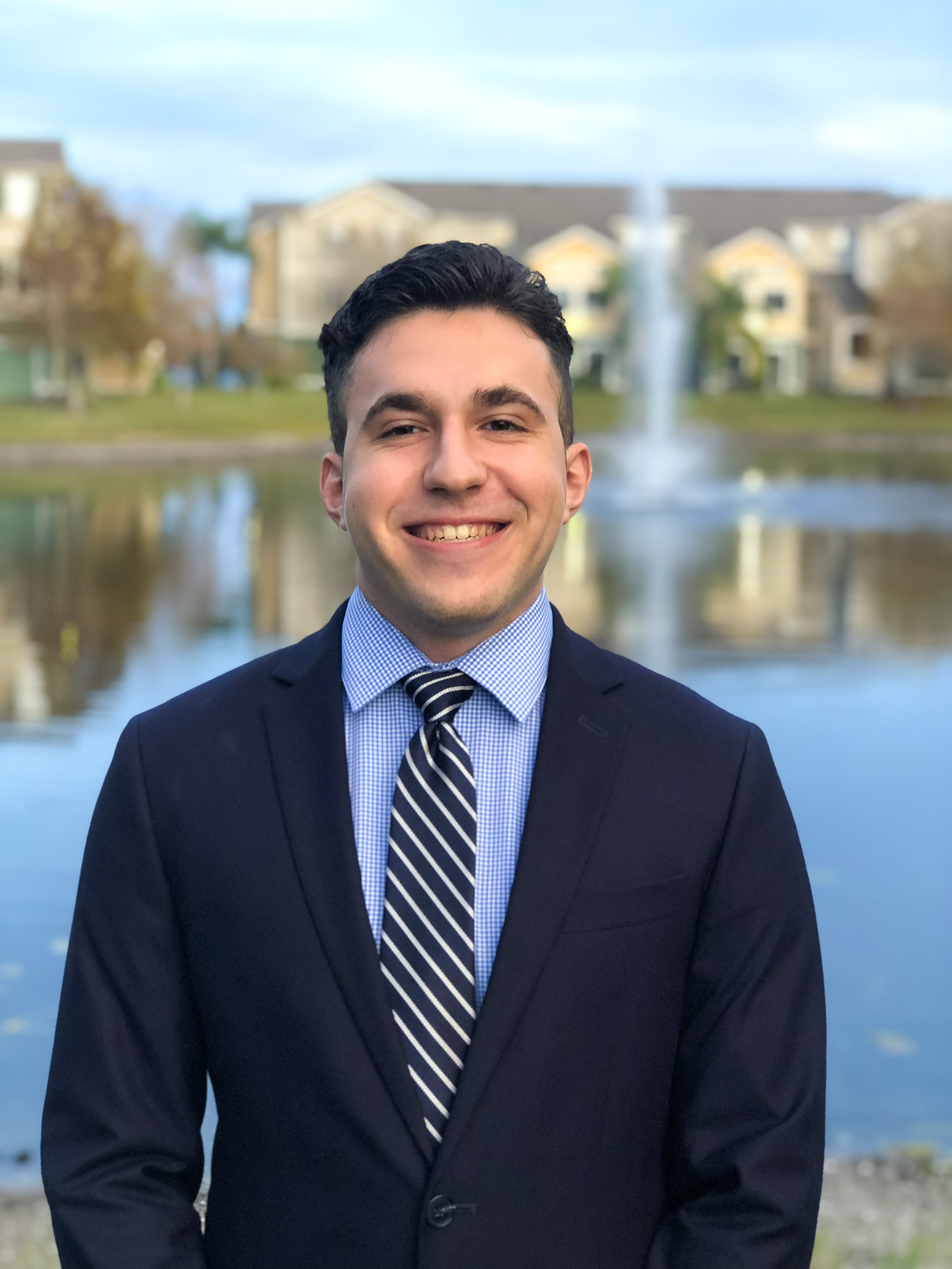
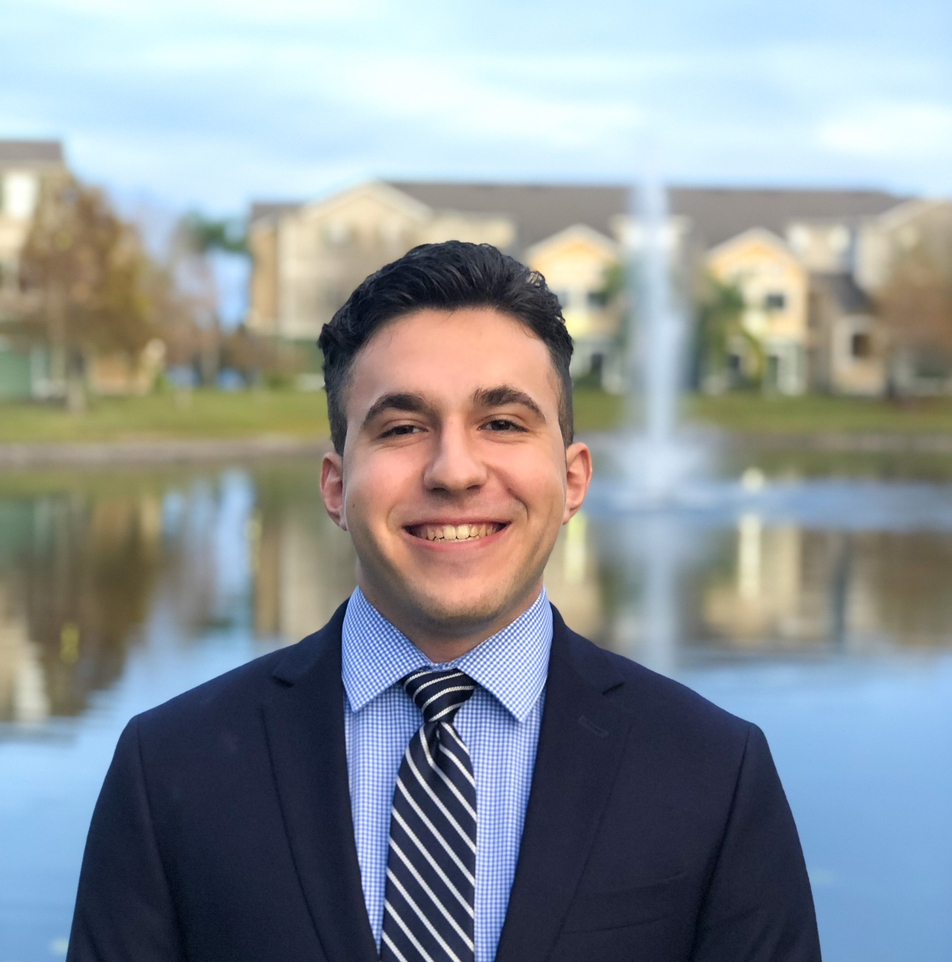
updates headshot and tab title

diff --git a/index.html b/index.html
@@ -2,7 +2,7 @@
 <html lang="en">
     <head>
         <meta name="viewport" content="width=device-width"/>
-        <title id="tabTitle">Yanni Karamanis</title>
+        <title id="tabTitle">Portfolio - Yanni Karamanis</title>
         <link href="https://cdn.jsdelivr.net/npm/bootstrap@5.0.0-beta2/dist/css/bootstrap.min.css" rel="stylesheet" integrity="sha384-BmbxuPwQa2lc/FVzBcNJ7UAyJxM6wuqIj61tLrc4wSX0szH/Ev+nYRRuWlolflfl" crossorigin="anonymous">
         <link rel="stylesheet" href="style.css">
         <script src="/main.js"></script>
